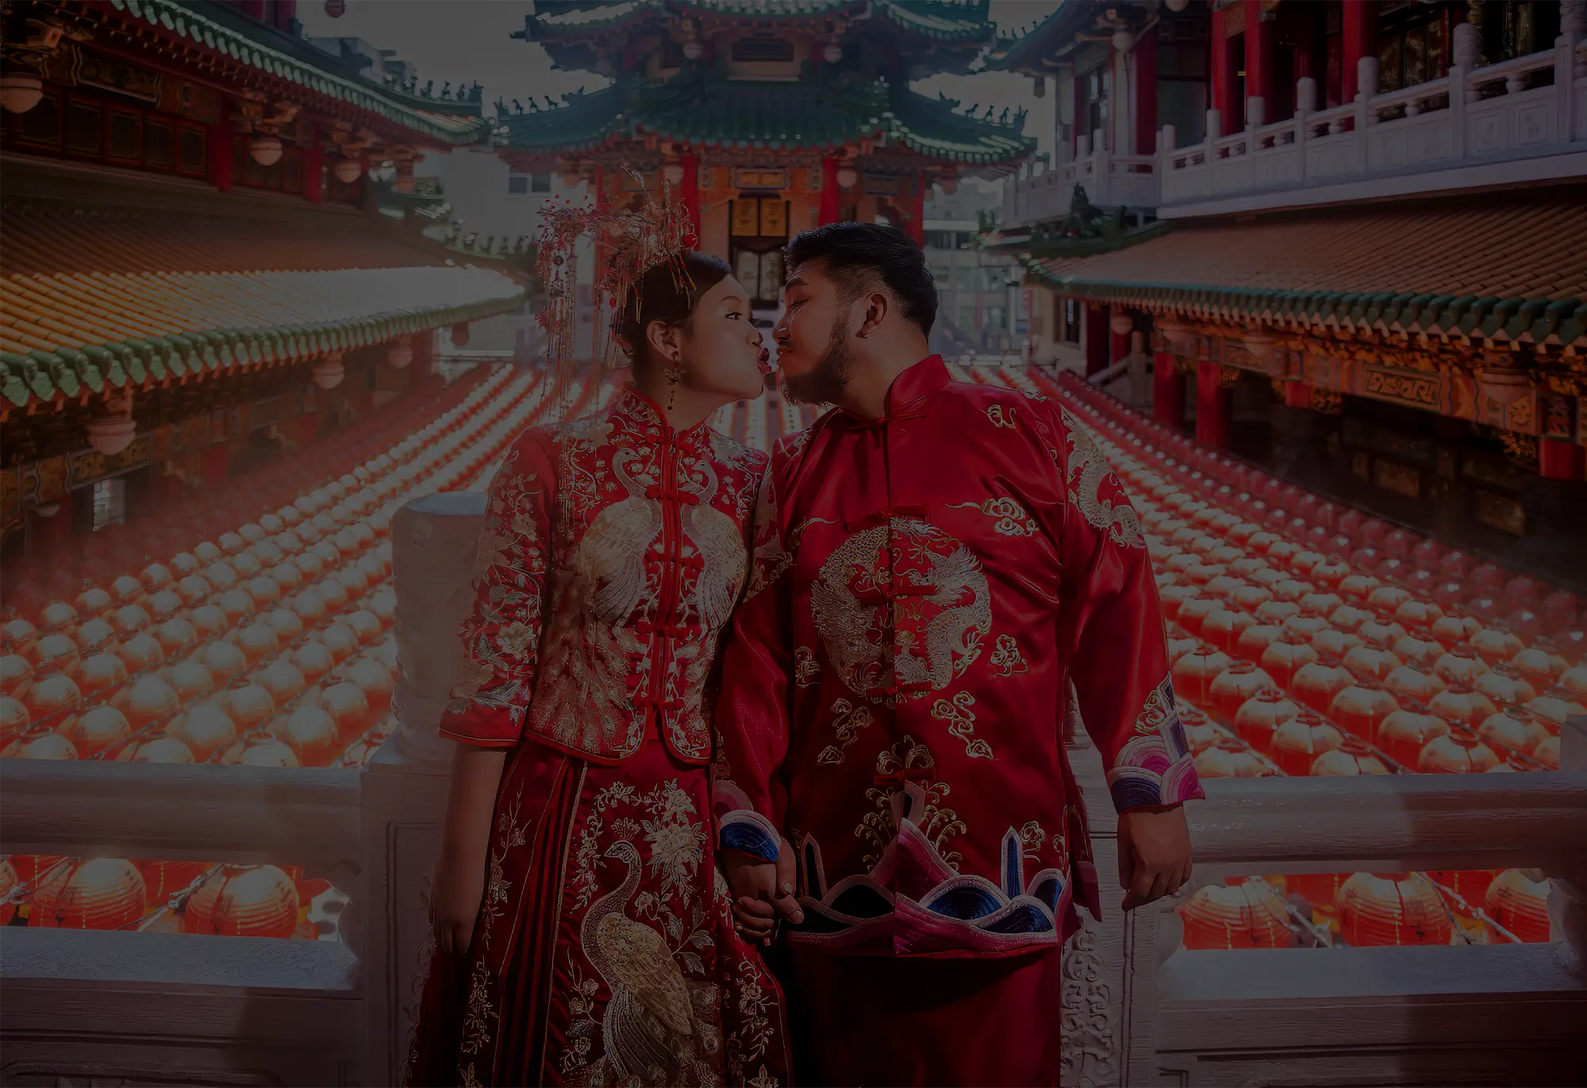
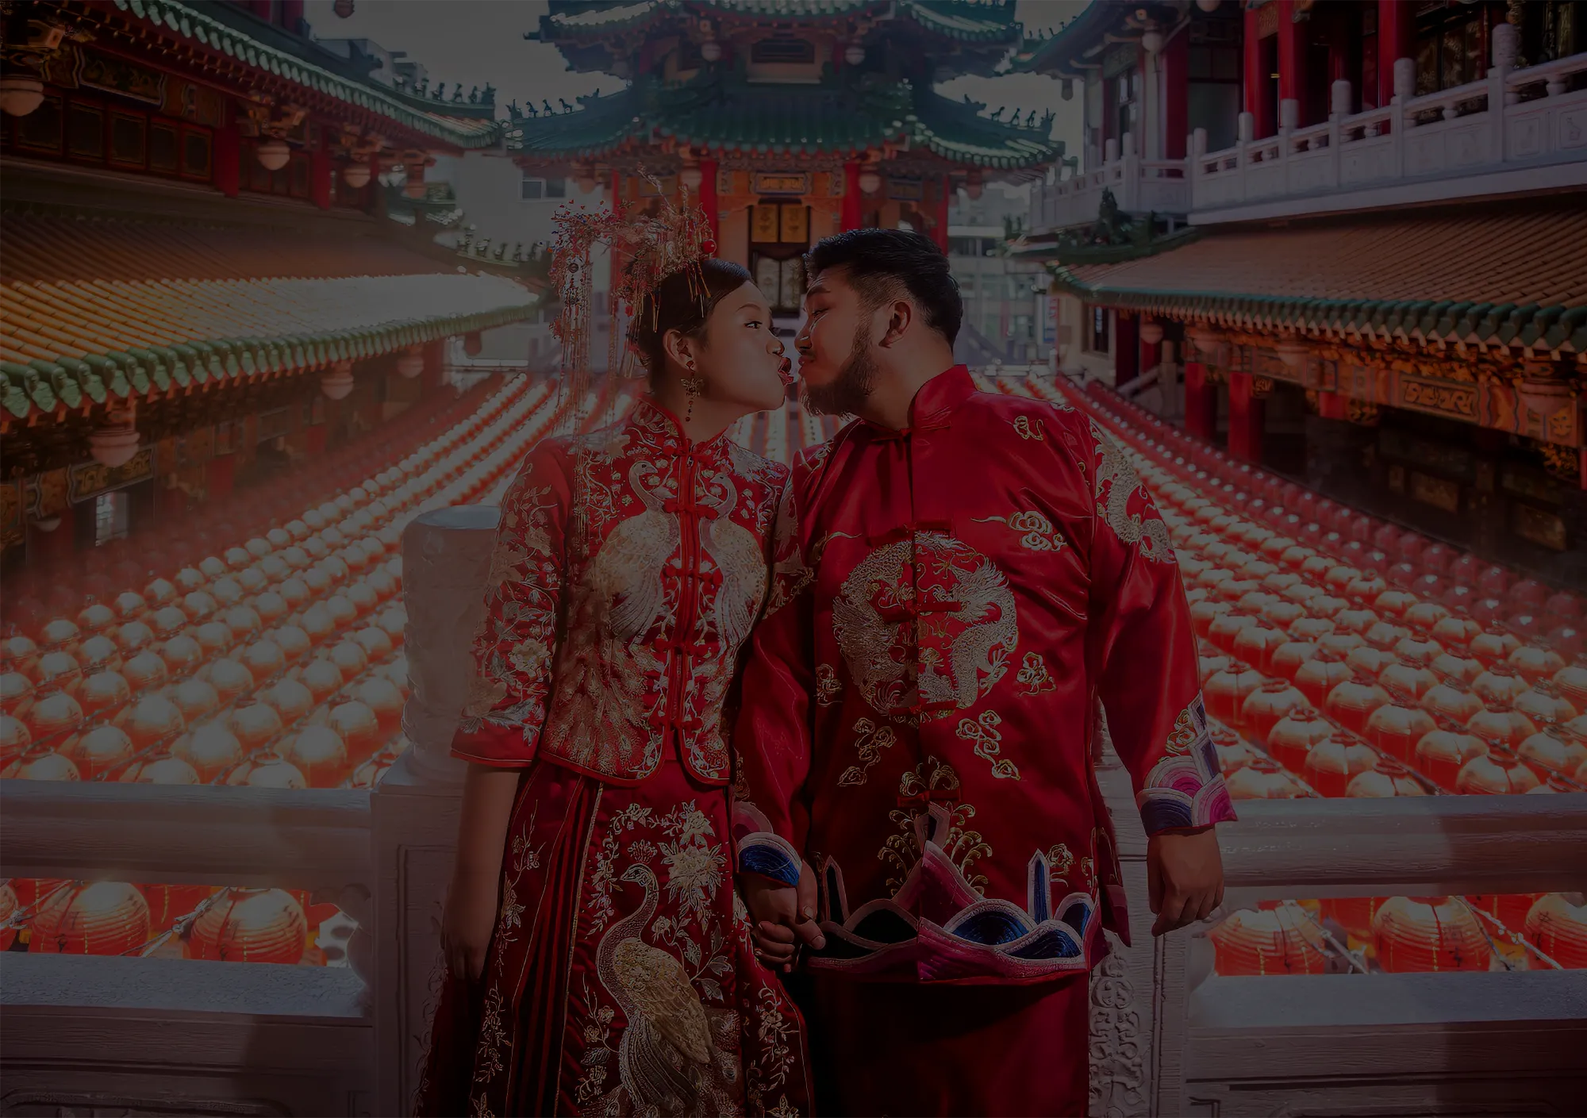
make element center

diff --git a/css/style.uncss.min.css b/css/style.uncss.min.css
@@ -1,1 +1,1 @@
-@charset "utf-8";body{font-family:serif;color:#6a6a6a;font-size:15px}h1,h2,h3{font-family:hyxinhaixingkaiw,cursive}h1,h2,h3{color:#333}h1,h2,h3{margin-top:20px;margin-bottom:20px}h1{font-size:40px}h2{font-size:30px}h3{font-size:20px}p{font-family:serif;font-size:15px;line-height:26px;margin-bottom:25px}a{text-decoration:none;color:#6a6a6a}a:hover{text-decoration:none}.clearboth{clear:both}#nav-header{z-index:1000}#nav-bar{position:relative;height:145px;width:100%;z-index:1000}#nav-bar.fluid-width #nav-wrapper{position:relative;height:inherit;width:100%;padding:0 30px}#nav-bar.bottom-bar.outside{position:absolute;bottom:-145px}#nav-bar.bottom-bar.stick-it{position:fixed;height:145px;width:100%;background-color:#fff;top:0;bottom:auto}#nav-bar.block-color{background-color:#fff}.logo-wrapper{position:relative;width:60px;height:60px;margin-top:40px}#nav-menu{align-items:center;list-style-type:none;margin:0;padding:45px 0 0;font-family:sans-serif;font-size:13px;z-index:1000}@media screen and (min-width:992px){#nav-wrapper>div.logo-wrapper{display:none}}#nav-bar.nav-center .logo-wrapper{margin:auto;top:0;bottom:0;left:0;right:0}#nav-bar.nav-center .logo-wrapper a{position:absolute;width:100%;height:100%;padding:0;top:0;left:0;display:block}#nav-menu{text-align:center;display:flex;justify-content:center}#nav-menu>li{position:relative;display:inline}@media screen and (max-width:991px){#nav-menu>li.logo-item,#nav-menu>i{display:none}}#nav-menu>li a{display:inline-block;padding:18px;color:#666;text-decoration:none}#nav-menu>li a:hover{color:#f0394d}#mobile-nav{display:none}#mobile-nav{color:#666}.css-logo{width:100%;height:100%;border-radius:0%;background-color:#f0394d;color:#fff;text-align:center;font-family:serif}.css-logo.rounded{border-radius:50%}.css-logo-text{padding-top:19px;font-size:15px}.css-logo-text>i{font-size:10px}#main-slider{margin:0;padding:0;position:relative;height:100vh;}#main-slider .slide-image{background-position: top center; width: 100%; padding-top: 75%; position: relative; height: inherit; background-size: cover; background-color: #fff; -webkit-transform: translateZ(0); aspect-ratio: 16/9}.slide-title-outter-wrapper{position:absolute;width:100%;height:inherit;left:0;z-index:3;overflow:hidden}.slide-title-inner-wrapper{width:1170px;height:inherit;margin:0 auto;display:table}.slide-title{display:table-cell;text-align:center;color:#fff}.slide-title h1{color:#fff}.slide-title.align-bottom{vertical-align:bottom}#slide-arrow{position:absolute;left:50%;bottom:calc(5vh + 5px);transform:translateX(-50%)}#slide-arrow a{color:#fff;font-size:25px}#content{position:relative;background-color:#f6f6f6}.outside-bottom-bar-page #content{margin-top:145px}.section-title{margin-bottom:70px}.section-title h2{font-size:40px}.alignment{position:absolute;display:table;height:100%;width:100%}.v-align{display:table-cell}.center-middle{vertical-align:middle;text-align:center}.image-divider{position:relative;background-size:cover;-webkit-background-size:cover;background-attachment:scroll;background-position:50%;background-repeat:no-repeat;color:#fff;-webkit-backface-visibility:hidden}.image-divider h2{color:#fff}.image-divider .divider-overlay{position:absolute;top:0;display:block;width:100%;height:100%;background-color:#000;opacity:.3}.image-divider.auto-height{height:100%;width:100%;padding:150px 0}.image-divider.fixed-height{height:700px;width:100%;padding:0}.heart-divider{height:100%;width:100%;margin:0 auto;margin-top:20px;margin-bottom:20px;text-align:center}.white-line{width:30px;height:8px;display:inline-block;border-top:solid 1px #fff}.pink-heart{color:#f0394d;font-size:18px;position:relative;margin-left:.2em;z-index:3}.white-heart{color:#fff;font-size:18px;margin-left:-9px;position:relative;margin-right:.2em;z-index:2}.banner-text{display:inline-block;font-family:sans-serif;margin:auto;margin-top:30px;margin-bottom:30px;text-align:center}.banner-text.medium{padding:2px 10%}.banner-text.light{color:#fff;border-top:double #fff;border-bottom:double #fff}.banner-text.light *{color:#fff}.de-icon{width:60px;height:60px;line-height:60px;font-size:30px;text-align:center;vertical-align:middle;margin:8px 0;-webkit-transition:.3s all ease;-moz-transition:.3s all ease;-o-transition:.3s all ease;-ms-transition:.3s all ease;transition:.3s all ease}.de-icon.inline{display:inline-block;vertical-align:middle;margin-right:8px}.de-icon i{-webkit-transition:.3s all ease;-moz-transition:.3s all ease;-o-transition:.3s all ease;-ms-transition:.3s all ease;transition:.3s all ease}.de-icon.medium-size{width:54px;height:54px;line-height:54px;font-size:21px}.de-icon.circle{border-radius:50%}.de-icon.circle{background-color:#6a6a6a;color:#fff}.de-icon.circle.light{background-color:#fff;color:#6a6a6a}a:hover .de-icon.circle{background-color:#f0394d;color:#fff;border:none}.photo-item{position:relative;overflow:hidden}.photo-item.frame-border{background-color:#fff;border:18px solid #fff}.photo-item img{width:100%}.photo-item .layer{position:absolute;margin:auto;top:0;right:0;bottom:0;left:0;width:100%;height:100%}.photo-item .layer.wh100{width:100%;height:100%}.photo-item .layer.hidden-black-overlay{background-color:rgba(0,0,0,.4);opacity:0}.photo-item .layer.hidden-link{opacity:0}.photo-item:hover .layer.hover-animation.fade-in{opacity:1}.photo-item img.hover-animation,.photo-item:hover img.hover-animation{-webkit-transition:all .5s;-ms-transition:all .5s;-o-transition:all .5s;transition:all .5s}.photo-item .layer.hover-animation,.photo-item:hover .layer.hover-animation{-webkit-transition:all .5s;-ms-transition:all .5s;-o-transition:all .5s;transition:all .5s}.photo-item:hover img.hover-animation.image-zoom-in{-webkit-transform:scale(1.1);-ms-transform:scale(1.1);-o-transform:scale(1.1);transform:scale(1.1)}.photo-item:hover img.hover-animation.image-zoom-rotate{-webkit-transform:rotate(7deg)scale(1.1);-ms-transform:rotate(7deg)scale(1.1);-o-transform:rotate(7deg)scale(1.1);transform:rotate(7deg)scale(1.1)}#couple{padding:140px 0 100px}footer .image-divider.fixed-height{height:550px}#thank-you{text-align:center;color:#fff;font-family:pacificoregular;-ms-transform:rotate(-10deg);-webkit-transform:rotate(-10deg);transform:rotate(-10deg);padding-right:30px;margin-top:40px;margin-bottom:25px}#thank{font-size:55px;line-height:45px}#you{font-size:55px;line-height:45px}#footer-couple-name{font-family:hyxinhaixingkaiw,sans-serif;font-size:20px;color:#fff;letter-spacing:3px;margin-top:10px}#invited{font-family:pacificoregular,cursive;font-size:36px;margin-top:0}#banner-date{font-family:sans-serif;letter-spacing:3px;font-size:14px;}.his-her-name{position:relative}.his-her-name h2{font-size:40px;margin-top:50px;margin-bottom:20px}.his-her-name .last-name{font-family:hyxinhaixingkaiw,cursive;font-size:40px;display:block;margin-top:0}.his-her-name .heart-wrapper{position:absolute;right:-50px;top:0}.his-her-name .custom-heart{background-color:#f0394d;width:65px;height:65px;line-height:65px;font-size:26px}#where-when{padding:120px 0}.event-wrap{border:2px solid rgba(0,0,0,.5);padding:30px;width:100%;float:left;-webkit-border-radius:4px;-moz-border-radius:4px;-ms-border-radius:4px;border-radius:4px}.event-wrap h3{font-size:14px;color:#000;border-bottom:1px solid rgba(0,0,0,.5);display:block;padding-bottom:20px;letter-spacing:2px;font-size:25px}.event-wrap .event-col{width:50%;float:left;margin-bottom:20px}.event-wrap p,.event-wrap span{display:block;color:rgba(0,0,0,.8);font-family:sans-serif;font-size:16px}.event-wrap iframe{position:absolute;top:0;left:0;width:100%;height:100%;border:0}.event-col span{margin-top:10px}@media(max-width:767px){.event-wrap{margin-bottom:10px}}.event-wrap p{text-align:left;line-height:2}.event-row{display:flex;justify-content:space-between;align-items:flex-start;flex-wrap:wrap}.event-col{text-align:center}#taichung-wedding-map,#kaohsiung-wedding-map{background-size:cover;position:relative;overflow:hidden;padding-top:76.25%;border:unset}#gallery-section{padding:140px 0}#gallery-section .photo-item{margin-bottom:30px}.tick{font-size:1rem;white-space:nowrap;font-family:arial,sans-serif}.tick-flip{font-size:2.5em}.tick-label{margin-top:1em;font-size:1em}.tick-group{margin:0 .5em;text-align:center}body{background-color:#fff!important}.tick-label{color:#595d63!important}.tick-flip-panel{color:#fff!important}.tick-flip{font-family:!important}.tick-flip-panel-text-wrapper{line-height:1.45!important}.tick-flip-panel{background-color:#3c3e3c!important}.tick-flip{border-radius:.12em!important}#wishes-section{padding:140px 0;background-color:#fff}@media(min-device-width:800px) and (max-device-width:1280px){}@media screen and (max-width:1200px){.slide-title-inner-wrapper{width:100%}}@media screen and (max-width:991px){#nav-bar{height:100px}#nav-bar.bottom-bar.stick-it{height:100px}#nav-bar.fluid-width #nav-wrapper{padding:20px 30px}.logo-wrapper{margin:0}#nav-menu{display:none}#nav-menu.open{display:block}#nav-menu{list-style-type:none;margin:0;padding:0!important;position:absolute;left:0;top:100%;clear:both!important;text-align:left!important;width:100%!important;background-color:#fff;overflow:auto}#nav-bar.nav-center .logo-wrapper{position:relative;float:left}#nav-menu{-webkit-overflow-scrolling:touch}#nav-menu li{position:relative}#nav-menu li a{display:block;width:100%;color:#666;border-bottom:solid thin #f4f2f2}#nav-menu li a:hover{background-color:#f0394d;color:#fff}#nav-menu li:before{content:''}#mobile-nav{display:block;position:relative;float:right;font-size:28px;margin-top:12px;z-index:1000}.outside-bottom-bar-page #content{position: relative;}.image-divider{background-attachment:scroll}.his-her-name .heart-wrapper{display:none}@media screen and (max-width:991px) and (orientation:landscape){#nav-menu{height:230px!important}}@media screen and (max-width:768px) and (orientation:landscape){}@media screen and (max-width:768px){}@media screen and (max-width:480px){.section-title{margin-bottom:50px}.banner-text.medium{padding:0 10%;}#couple{padding:60px 0 40px}#where-when{padding:80px 0}#gallery-section{padding:80px 0}#wishes-section{padding:80px 0}}@media screen and (max-width:320px){footer .image-divider.fixed-height{height:400px}#thank-you{text-align:center;color:#fff;font-family:pacificoregular;-ms-transform:rotate(-10deg);-webkit-transform:rotate(-10deg);transform:rotate(-10deg);padding-right:30px;margin-top:40px;margin-bottom:25px}#thank{font-size:45px;line-height:35px}#you{font-size:45px;line-height:35px}#footer-couple-name{font-family:hyxinhaixingkaiw,sans-serif;font-size:15px;color:#fff;letter-spacing:3px;margin-top:10px}}}.hashtag{color:#0050b3;font-weight:700;font-size:20px}
+@charset "utf-8";body{font-family:serif;color:#6a6a6a;font-size:15px}h1,h2,h3{font-family:hyxinhaixingkaiw,cursive}h1,h2,h3{color:#333}h1,h2,h3{margin-top:20px;margin-bottom:20px}h1{font-size:40px}h2{font-size:30px}h3{font-size:20px}p{font-family:serif;font-size:15px;line-height:26px;margin-bottom:25px}a{text-decoration:none;color:#6a6a6a}a:hover{text-decoration:none}.clearboth{clear:both}#nav-header{z-index:1000}#nav-bar{position:relative;height:145px;width:100%;z-index:1000}#nav-bar.fluid-width #nav-wrapper{position:relative;height:inherit;width:100%;padding:0 30px}#nav-bar.bottom-bar.outside{position:absolute;bottom:-145px}#nav-bar.bottom-bar.stick-it{position:fixed;height:145px;width:100%;background-color:#fff;top:0;bottom:auto}#nav-bar.block-color{background-color:#fff}.logo-wrapper{position:relative;width:60px;height:60px;margin-top:40px}#nav-menu{align-items:center;list-style-type:none;margin:0;padding:45px 0 0;font-family:sans-serif;font-size:13px;z-index:1000}@media screen and (min-width:992px){#nav-wrapper>div.logo-wrapper{display:none}}#nav-bar.nav-center .logo-wrapper{margin:auto;top:0;bottom:0;left:0;right:0}#nav-bar.nav-center .logo-wrapper a{position:absolute;width:100%;height:100%;padding:0;top:0;left:0;display:block}#nav-menu{text-align:center;display:flex;justify-content:center}#nav-menu>li{position:relative;display:inline}@media screen and (max-width:991px){#nav-menu>li.logo-item,#nav-menu>i{display:none}}#nav-menu>li a{display:inline-block;padding:18px;color:#666;text-decoration:none;width: 120px; text-align: center; box-sizing: border-box;}#nav-menu>li a:hover{color:#f0394d}#mobile-nav{display:none}#mobile-nav{color:#666}.css-logo{width:100%;height:100%;border-radius:0%;background-color:#f0394d;color:#fff;text-align:center;font-family:serif}.css-logo.rounded{border-radius:50%}.css-logo-text{padding-top:19px;font-size:15px}.css-logo-text>i{font-size:10px}#main-slider{margin:0;padding:0;position:relative;height:100vh;}#main-slider .slide-image{background-position: top center; width: 100%; position: relative; height: inherit; background-size: cover; background-color: #fff; -webkit-transform: translateZ(0); aspect-ratio: 16/9}.slide-title-outter-wrapper{position:absolute;width:100%;height:inherit;left:0;z-index:3;overflow:hidden}.slide-title-inner-wrapper{width:1170px;height:inherit;margin:0 auto;display:table}.slide-title{display:table-cell;text-align:center;color:#fff}.slide-title h1{color:#fff}.slide-title.align-bottom{vertical-align:bottom}#slide-arrow{position:absolute;left:50%;bottom:calc(5vh + 5px);transform:translateX(-50%)}#slide-arrow a{color:#fff;font-size:25px}#content{position:relative;background-color:#f6f6f6}.outside-bottom-bar-page #content{margin-top:145px}.section-title{margin-bottom:70px}.section-title h2{font-size:40px}.alignment{position:absolute;display:table;height:100%;width:100%}.v-align{display:table-cell}.center-middle{vertical-align:middle;text-align:center}.image-divider{position:relative;background-size:cover;-webkit-background-size:cover;background-attachment:scroll;background-position:50%;background-repeat:no-repeat;color:#fff;-webkit-backface-visibility:hidden}.image-divider h2{color:#fff}.image-divider .divider-overlay{position:absolute;top:0;display:block;width:100%;height:100%;background-color:#000;opacity:.3}.image-divider.auto-height{height:100%;width:100%;padding:150px 0}.image-divider.fixed-height{height:700px;width:100%;padding:0}.heart-divider{height:100%;width:100%;margin:0 auto;margin-top:20px;margin-bottom:20px;text-align:center}.white-line{width:30px;height:8px;display:inline-block;border-top:solid 1px #fff}.pink-heart{color:#f0394d;font-size:18px;position:relative;margin-left:.2em;z-index:3}.white-heart{color:#fff;font-size:18px;margin-left:-9px;position:relative;margin-right:.2em;z-index:2}.banner-text{display:inline-block;font-family:sans-serif;margin:auto;margin-top:30px;margin-bottom:30px;text-align:center}.banner-text.medium{padding:2px 10%}.banner-text.light{color:#fff;border-top:double #fff;border-bottom:double #fff}.banner-text.light *{color:#fff}.de-icon{width:60px;height:60px;line-height:60px;font-size:30px;text-align:center;vertical-align:middle;margin:8px 0;-webkit-transition:.3s all ease;-moz-transition:.3s all ease;-o-transition:.3s all ease;-ms-transition:.3s all ease;transition:.3s all ease}.de-icon.inline{display:inline-block;vertical-align:middle;margin-right:8px}.de-icon i{-webkit-transition:.3s all ease;-moz-transition:.3s all ease;-o-transition:.3s all ease;-ms-transition:.3s all ease;transition:.3s all ease}.de-icon.medium-size{width:54px;height:54px;line-height:54px;font-size:21px}.de-icon.circle{border-radius:50%}.de-icon.circle{background-color:#6a6a6a;color:#fff}.de-icon.circle.light{background-color:#fff;color:#6a6a6a}a:hover .de-icon.circle{background-color:#f0394d;color:#fff;border:none}.photo-item{position:relative;overflow:hidden}.photo-item.frame-border{background-color:#fff;border:18px solid #fff}.photo-item img{width:100%}.photo-item .layer{position:absolute;margin:auto;top:0;right:0;bottom:0;left:0;width:100%;height:100%}.photo-item .layer.wh100{width:100%;height:100%}.photo-item .layer.hidden-black-overlay{background-color:rgba(0,0,0,.4);opacity:0}.photo-item .layer.hidden-link{opacity:0}.photo-item:hover .layer.hover-animation.fade-in{opacity:1}.photo-item img.hover-animation,.photo-item:hover img.hover-animation{-webkit-transition:all .5s;-ms-transition:all .5s;-o-transition:all .5s;transition:all .5s}.photo-item .layer.hover-animation,.photo-item:hover .layer.hover-animation{-webkit-transition:all .5s;-ms-transition:all .5s;-o-transition:all .5s;transition:all .5s}.photo-item:hover img.hover-animation.image-zoom-in{-webkit-transform:scale(1.1);-ms-transform:scale(1.1);-o-transform:scale(1.1);transform:scale(1.1)}.photo-item:hover img.hover-animation.image-zoom-rotate{-webkit-transform:rotate(7deg)scale(1.1);-ms-transform:rotate(7deg)scale(1.1);-o-transform:rotate(7deg)scale(1.1);transform:rotate(7deg)scale(1.1)}#couple{padding:140px 0 100px}footer .image-divider.fixed-height{height:550px}#thank-you{text-align:center;color:#fff;font-family:pacificoregular;-ms-transform:rotate(-10deg);-webkit-transform:rotate(-10deg);transform:rotate(-10deg);padding-right:30px;margin-top:40px;margin-bottom:25px}#thank{font-size:55px;line-height:45px}#you{font-size:55px;line-height:45px}#footer-couple-name{font-family:hyxinhaixingkaiw,sans-serif;font-size:20px;color:#fff;letter-spacing:3px;margin-top:10px}#invited{font-family:pacificoregular,cursive;font-size:36px;margin-top:0}#banner-date{font-family:sans-serif;letter-spacing:3px;font-size:14px;}.his-her-name{position:relative}.his-her-name h2{font-size:40px;margin-top:50px;margin-bottom:20px}.his-her-name .last-name{font-family:hyxinhaixingkaiw,cursive;font-size:40px;display:block;margin-top:0}.his-her-name .heart-wrapper{position:absolute;right:-50px;top:0}.his-her-name .custom-heart{background-color:#f0394d;width:65px;height:65px;line-height:65px;font-size:26px}#where-when{padding:120px 0}.event-wrap{border:2px solid rgba(0,0,0,.5);padding:30px;width:100%;float:left;-webkit-border-radius:4px;-moz-border-radius:4px;-ms-border-radius:4px;border-radius:4px}.event-wrap h3{font-size:14px;color:#000;border-bottom:1px solid rgba(0,0,0,.5);display:block;padding-bottom:20px;letter-spacing:2px;font-size:25px}.event-wrap .event-col{width:50%;float:left;margin-bottom:20px}.event-wrap p,.event-wrap span{display:block;color:rgba(0,0,0,.8);font-family:sans-serif;font-size:16px}.event-wrap iframe{position:absolute;top:0;left:0;width:100%;height:100%;border:0}.event-col span{margin-top:10px}@media(max-width:767px){.event-wrap{margin-bottom:10px}}.event-wrap p{text-align:left;line-height:2}.event-row{display:flex;justify-content:space-between;align-items:flex-start;flex-wrap:wrap}.event-col{text-align:center}#taichung-wedding-map,#kaohsiung-wedding-map{background-size:cover;position:relative;overflow:hidden;padding-top:76.25%;border:unset}#gallery-section{padding:140px 0}#gallery-section .photo-item{margin-bottom:30px}.tick{font-size:1rem;white-space:nowrap;font-family:arial,sans-serif}.tick-flip{font-size:2.5em}.tick-label{margin-top:1em;font-size:1em}.tick-group{margin:0 .5em;text-align:center}body{background-color:#fff!important}.tick-label{color:#595d63!important}.tick-flip-panel{color:#fff!important}.tick-flip{font-family:!important}.tick-flip-panel-text-wrapper{line-height:1.45!important}.tick-flip-panel{background-color:#3c3e3c!important}.tick-flip{border-radius:.12em!important}#wishes-section{padding:140px 0;background-color:#fff}@media(min-device-width:800px) and (max-device-width:1280px){}@media screen and (max-width:1200px){.slide-title-inner-wrapper{width:100%}}@media screen and (max-width:991px){#nav-bar{height:100px}#nav-bar.bottom-bar.stick-it{height:100px}#nav-bar.fluid-width #nav-wrapper{padding:20px 30px}.logo-wrapper{margin:0}#nav-menu{display:none}#nav-menu.open{display:block}#nav-menu{list-style-type:none;margin:0;padding:0!important;position:absolute;left:0;top:100%;clear:both!important;text-align:left!important;width:100%!important;background-color:#fff;overflow:auto}#nav-bar.nav-center .logo-wrapper{position:relative;float:left}#nav-menu{-webkit-overflow-scrolling:touch}#nav-menu li{position:relative}#nav-menu li a{display:block;width:100%;color:#666;border-bottom:solid thin #f4f2f2}#nav-menu li a:hover{background-color:#f0394d;color:#fff}#nav-menu li:before{content:''}#mobile-nav{display:block;position:relative;float:right;font-size:28px;margin-top:12px;z-index:1000}.outside-bottom-bar-page #content{position: relative;}.image-divider{background-attachment:scroll}.his-her-name .heart-wrapper{display:none}@media screen and (max-width:991px) and (orientation:landscape){#nav-menu{height:230px!important}}@media screen and (max-width:768px) and (orientation:landscape){}@media screen and (max-width:768px){}@media screen and (max-width:480px){.section-title{margin-bottom:50px}.banner-text.medium{padding:0 10%;}#couple{padding:60px 0 40px}#where-when{padding:80px 0}#gallery-section{padding:80px 0}#wishes-section{padding:80px 0}}@media screen and (max-width:320px){footer .image-divider.fixed-height{height:400px}#thank-you{text-align:center;color:#fff;font-family:pacificoregular;-ms-transform:rotate(-10deg);-webkit-transform:rotate(-10deg);transform:rotate(-10deg);padding-right:30px;margin-top:40px;margin-bottom:25px}#thank{font-size:45px;line-height:35px}#you{font-size:45px;line-height:35px}#footer-couple-name{font-family:hyxinhaixingkaiw,sans-serif;font-size:15px;color:#fff;letter-spacing:3px;margin-top:10px}}}.hashtag{color:#0050b3;font-weight:700;font-size:20px}

diff --git a/index.html b/index.html
@@ -85,14 +85,9 @@
                 </div>
               </div>
               <div class="row">
-                <div id="slide-arrow" style="visibility: hidden">
+                <div id="slide-arrow" class="animation animate__delay-1s smooth-scroll">
                   <div class="animate__animated animate__bounce animate__slow animate__infinite">
-                    <a
-                      href="#content"
-                      class="animation animate__delay-1s smooth-scroll"                      
-                      aria-label="Down Arrow"
-                      id="slide-arrow-a"
-                    >
+                    <a href="#content" class="smooth-scroll" aria-label="Down Arrow" id="slide-arrow-a">
                       <i class="fa-solid fa-caret-down" style="color: #ffffff"></i>
                     </a>
                   </div>

diff --git a/css/style.uncss.css b/css/style.uncss.css
@@ -406,6 +406,9 @@ a:hover {
     padding: 18px;
     color: #666;
     text-decoration: none;
+    width: 120px;
+    text-align: center;
+    box-sizing: border-box;
 }
 
 #nav-menu>li a:hover {
@@ -544,7 +547,7 @@ a:hover {
     margin: 0;
     padding: 0;
     position: relative;
-    height:100vh;
+    height: 100vh;
 }
 
 /* ----------------------------------------------*/
@@ -559,7 +562,6 @@ a:hover {
 #main-slider .slide-image {
     background-position: top center;
     width: 100%;
-    padding-top: 75%;
     position: relative;
     height: inherit;
     background-size: cover;
@@ -1384,6 +1386,7 @@ footer .image-divider.fixed-height {
 .event-col {
     text-align: center;
 }
+
 #taichung-wedding-map,
 #kaohsiung-wedding-map {
     /* background: url(/image.webp);

diff --git a/css/style.css b/css/style.css
@@ -533,6 +533,9 @@ img.with-border {
     padding: 18px;
     color: #666;
     text-decoration: none;
+    width: 120px;
+    text-align: center;
+    box-sizing: border-box;
 }
 
 #nav-menu>li a:hover {
@@ -969,7 +972,6 @@ img.with-border {
 #main-slider .slide-image {
     background-position: top center;
     width: 100%;
-    padding-top: 75%;
     position: relative;
     height: inherit;
     background-size: cover;
